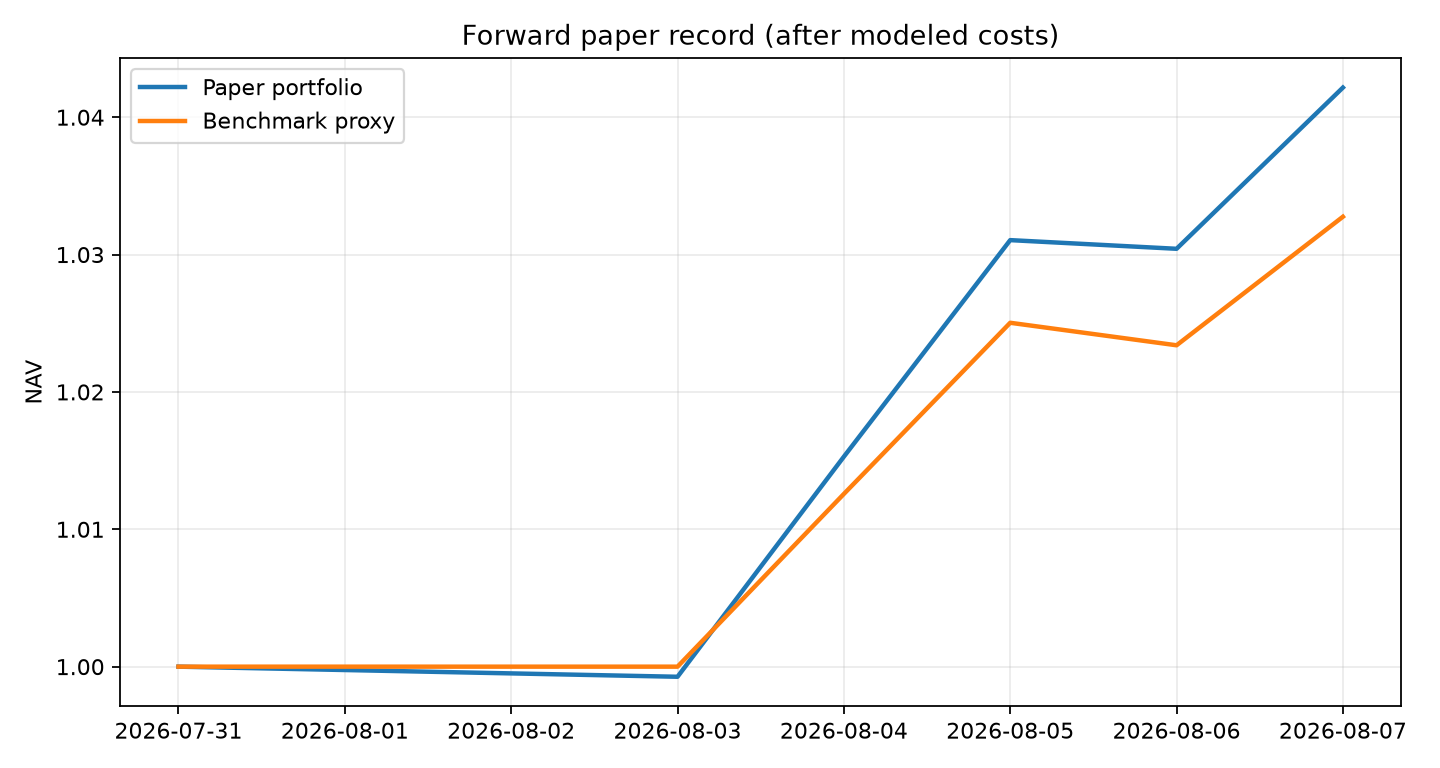
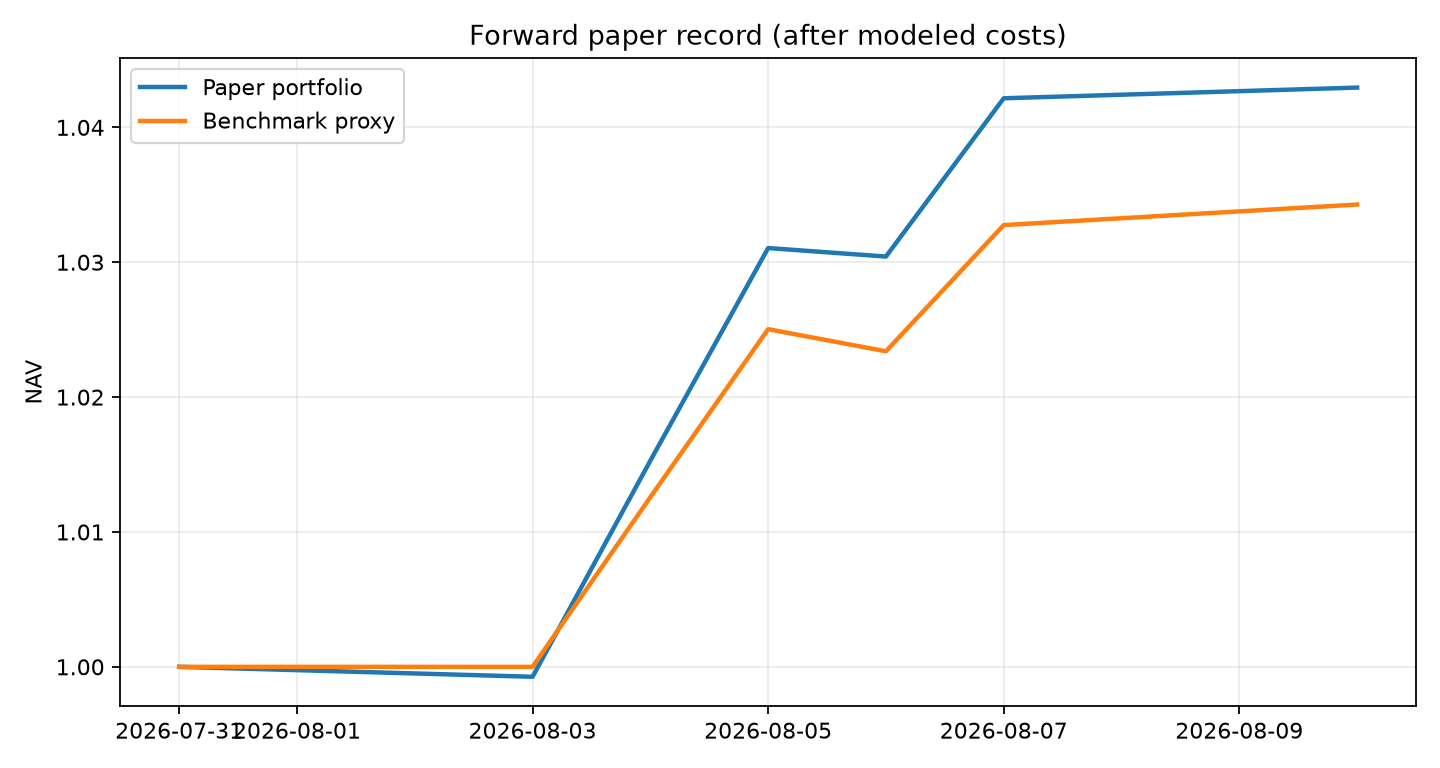
chore: update forward monitor 2026-08-10

diff --git a/docs/forward-monitoring.md b/docs/forward-monitoring.md
@@ -1,6 +1,6 @@
 # Forward paper-monitoring record
 
-Last updated: **2026-08-07** (Asia/Shanghai)
+Last updated: **2026-08-10** (Asia/Shanghai)
 
 This is an unaudited paper-trading research record. It is not a live fund,
 broker statement or investment advice. The empirical universe remains subject
@@ -10,17 +10,17 @@ to the fixed-current-constituent limitation described in `DATA_NOTICE.md`.
 
 | Metric | Value |
 |---|---:|
-| Market date | 2026-08-07 |
+| Market date | 2026-08-10 |
 | Health | GREEN_WARMUP |
-| Model version | 620946e8f715 |
-| Model train end | 2026-07-31 |
+| Model version | fe9f1f11dd26 |
+| Model train end | 2026-08-07 |
 | Data coverage | 100.0% |
-| Matured 5D Rank IC | 0.6589 |
-| Top-minus-bottom | 13.87% |
-| Paper active return | 0.22% |
-| 20D tracking error | 2.74% |
-| 20D information ratio | 14.08 |
-| Active drawdown | 0.00% |
+| Matured 5D Rank IC | 0.6121 |
+| Top-minus-bottom | 12.87% |
+| Paper active return | -0.07% |
+| 20D tracking error | 2.84% |
+| 20D information ratio | 10.73 |
+| Active drawdown | -0.07% |
 
 ## Recent observations
 
@@ -32,6 +32,7 @@ to the fixed-current-constituent limitation described in `DATA_NOTICE.md`.
 | 2026-08-05 | GREEN_WARMUP | N/A | 0.32% | 0.00% |
 | 2026-08-06 | GREEN_WARMUP | N/A | 0.10% | 0.00% |
 | 2026-08-07 | GREEN_WARMUP | 0.6589 | 0.22% | 0.00% |
+| 2026-08-10 | GREEN_WARMUP | 0.6121 | -0.07% | 1.14% |
 
 Ticker-level predictions, holdings and proposed orders are intentionally kept
 outside this public repository.
